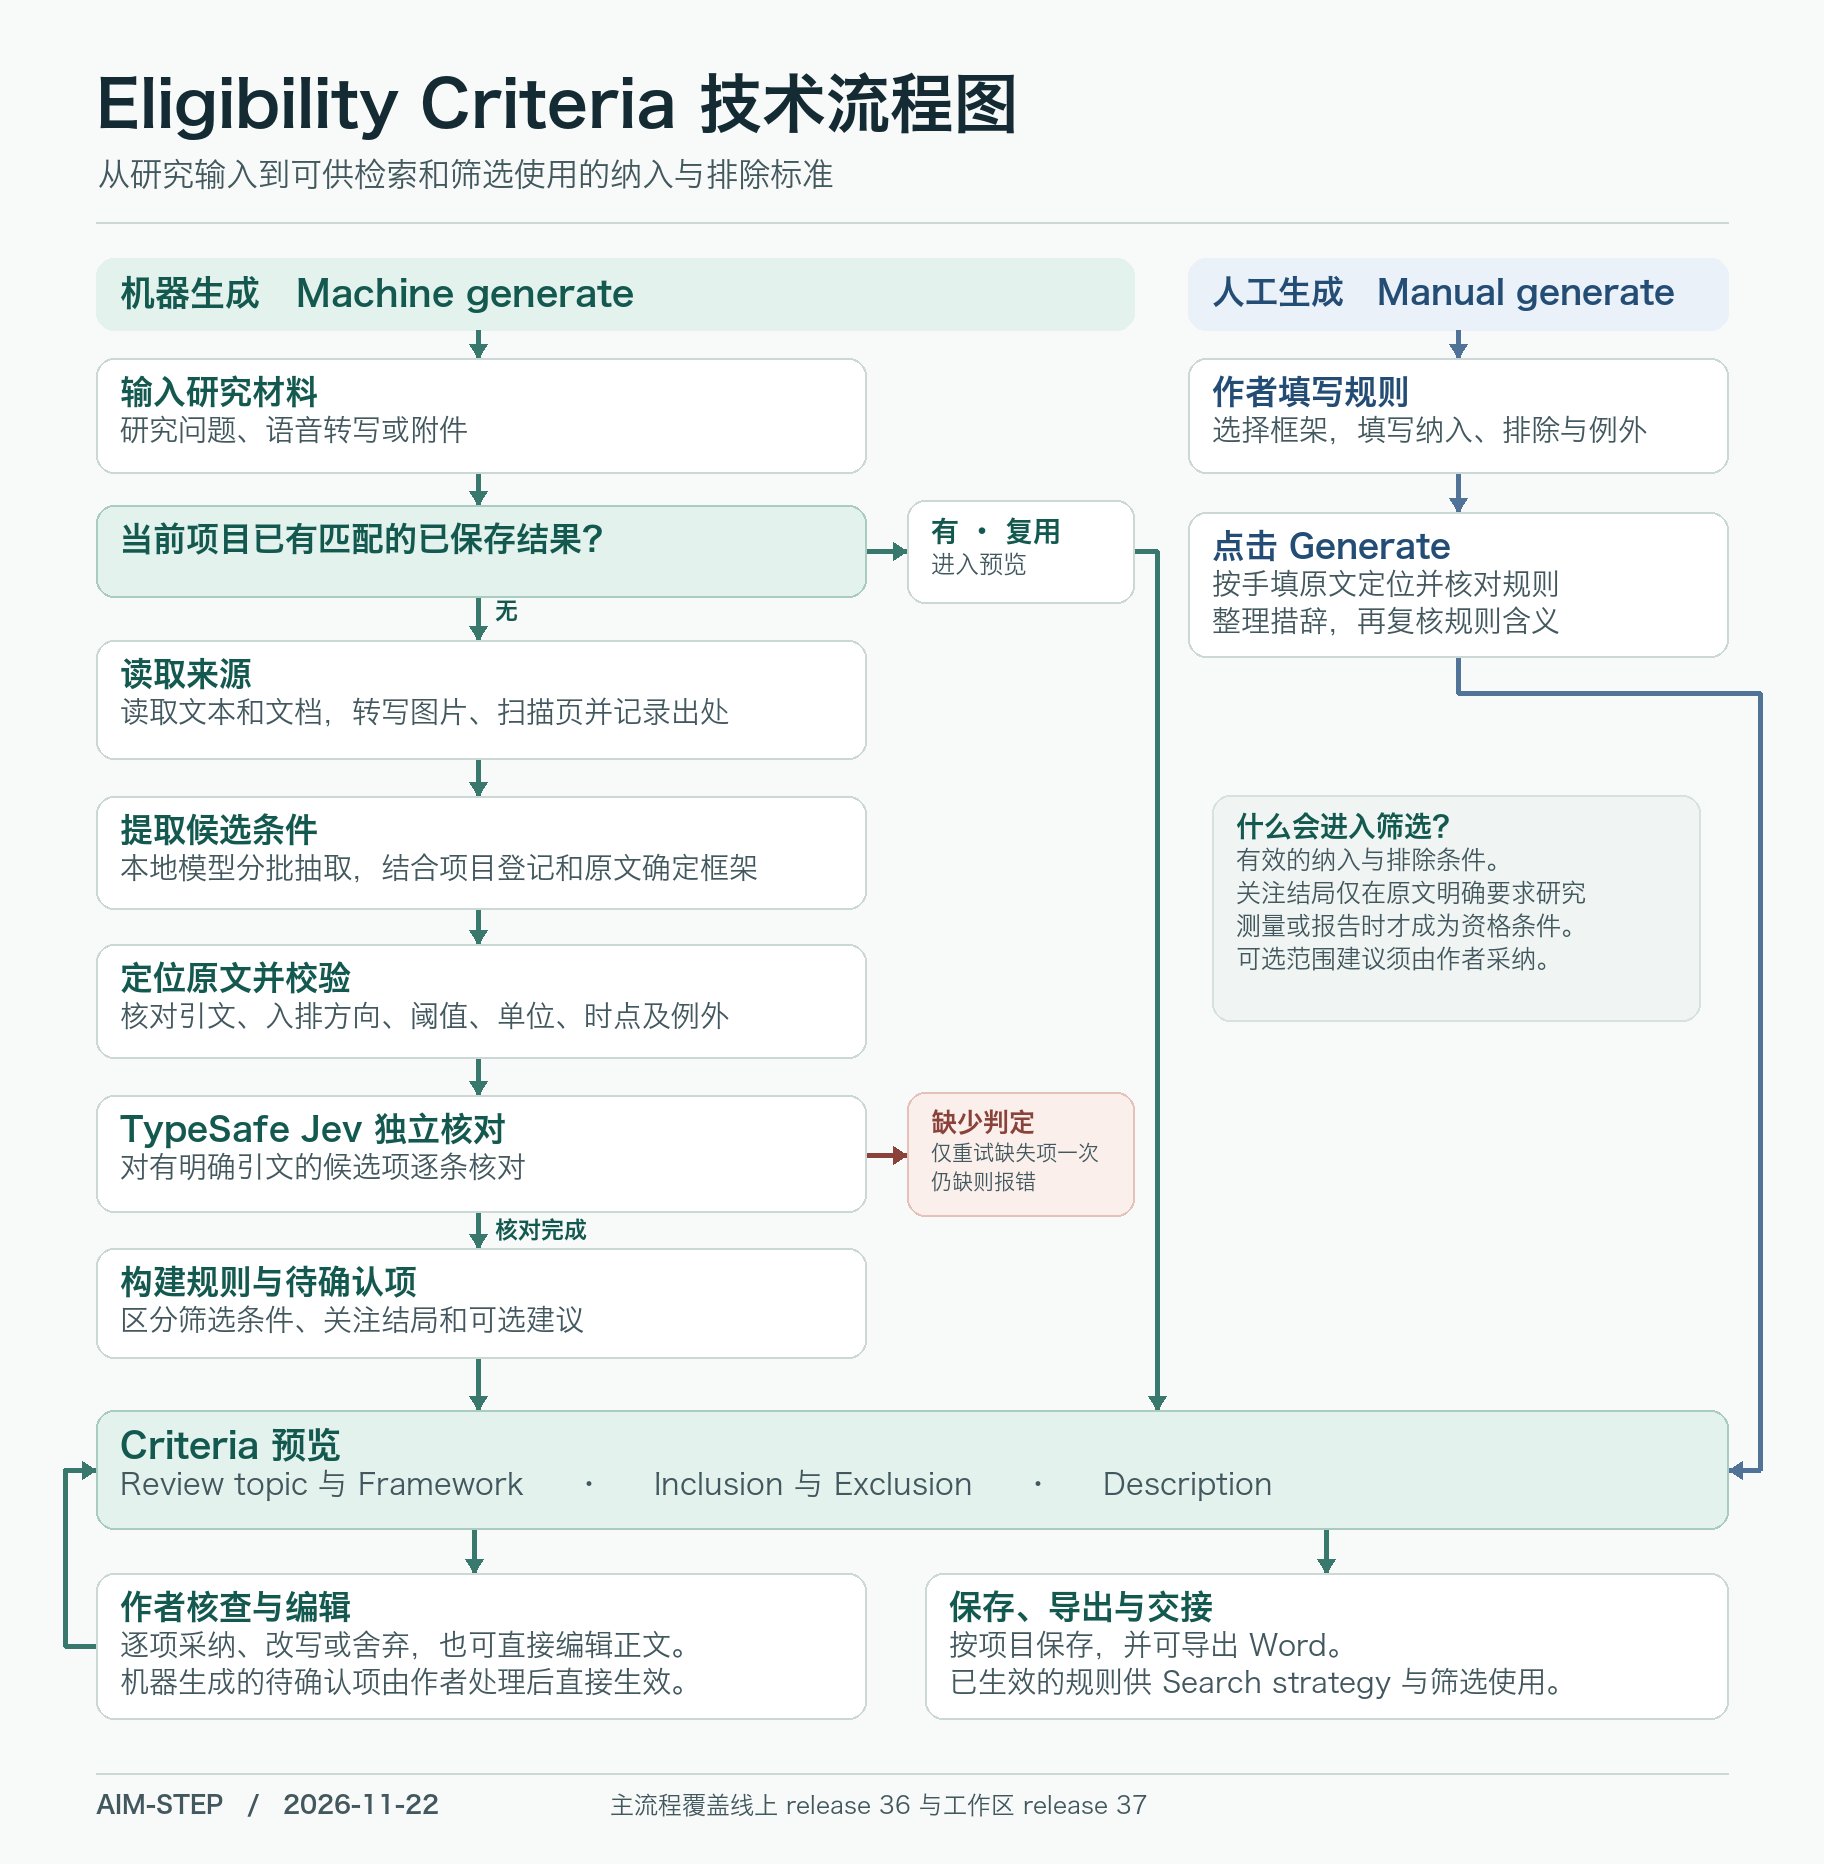
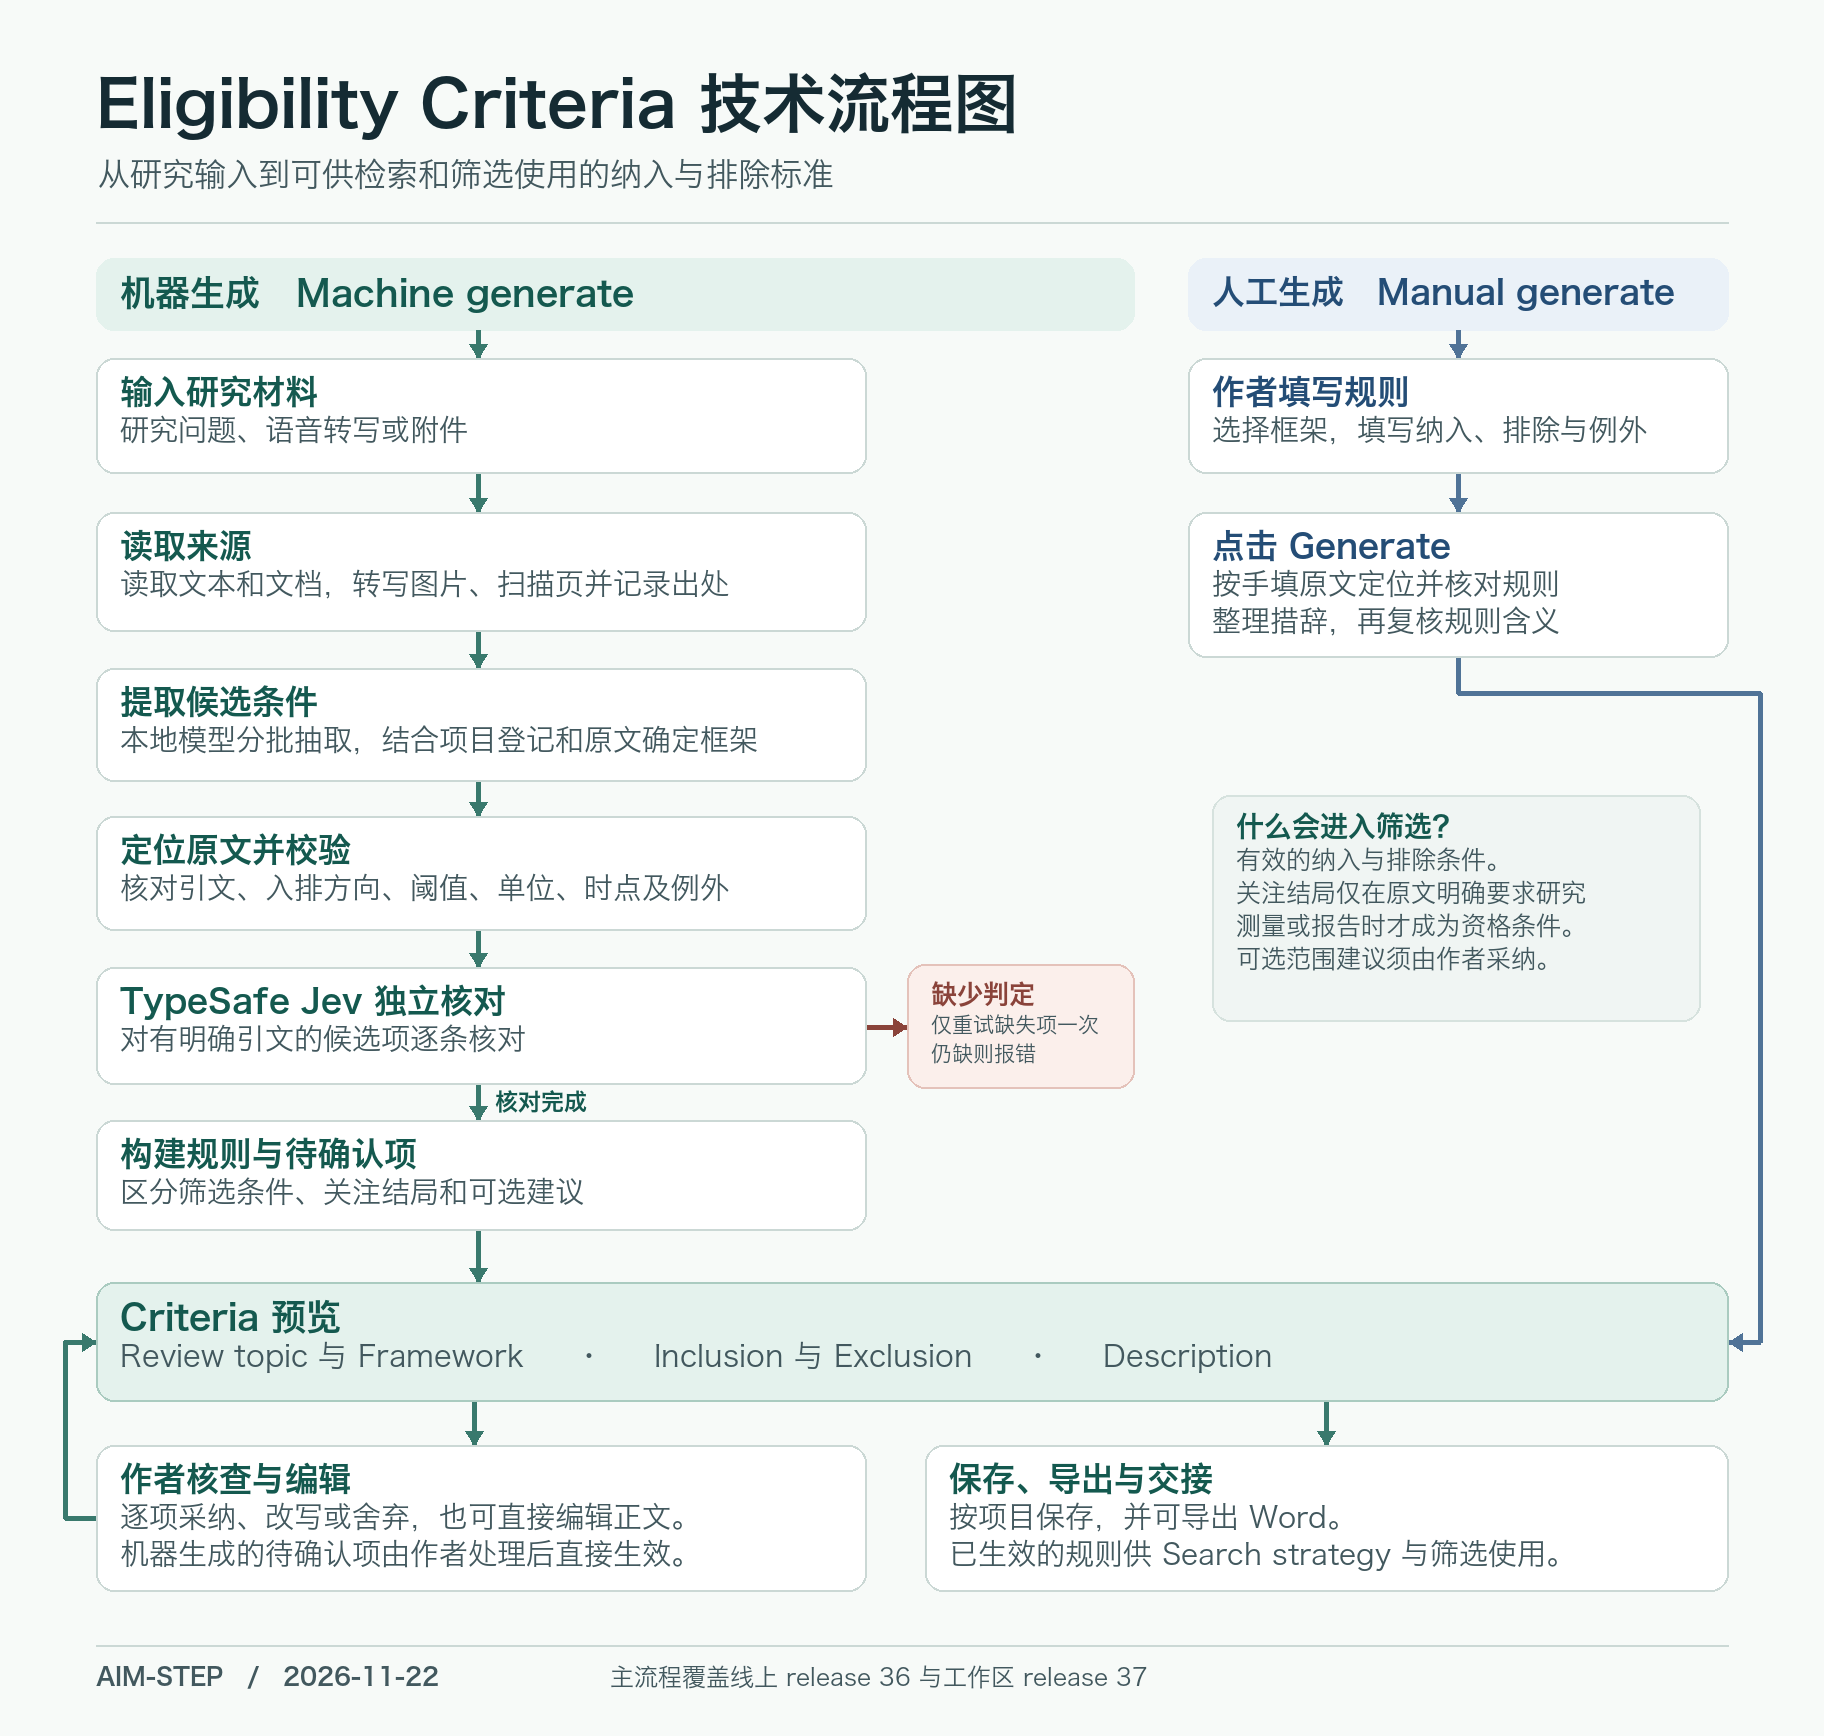
Remove reuse branch from eligibility workflow diagram

diff --git a/technical-roadmaps/eligibility-criteria/2026-11-22/sources/workflow.py b/technical-roadmaps/eligibility-criteria/2026-11-22/sources/workflow.py
@@ -26,7 +26,7 @@ def font(size, bold=False):
 
 
 def render(output):
-    image = Image.new('RGB', (1824, 1864), '#f7faf8')
+    image = Image.new('RGB', (1824, 1736), '#f7faf8')
     draw = ImageDraw.Draw(image)
 
     def text(x, y, value, size, color=INK, *, bold=False, max_width=None):
@@ -64,33 +64,27 @@ def render(output):
     card(1188, 258, 540, 72, '人工生成   Manual generate', fill=BLUE_PALE,
          border=BLUE_PALE, accent=BLUE, title_size=33)
 
-    for start, end in [(330, 358), (473, 505), (597, 640), (759, 796),
-                       (909, 944), (1058, 1095), (1212, 1248), (1358, 1410)]:
+    for start, end in [(330, 358), (473, 512), (631, 668), (781, 816),
+                       (930, 967), (1084, 1120), (1230, 1282)]:
         arrow([(478, start), (478, end)])
-    arrow([(866, 551), (907, 551)])
-    arrow([(1134, 551), (1157, 551), (1157, 1410)])
-    arrow([(866, 1155), (907, 1155)], ERROR)
+    arrow([(866, 1027), (907, 1027)], ERROR)
     for start, end in [(330, 358), (473, 512)]:
         arrow([(1458, start), (1458, end)], BLUE_LINE)
-    arrow([(1458, 657), (1458, 693), (1760, 693), (1760, 1470), (1728, 1470)],
+    arrow([(1458, 657), (1458, 693), (1760, 693), (1760, 1342), (1728, 1342)],
           BLUE_LINE)
-    arrow([(474, 1529), (474, 1573)])
-    arrow([(1326, 1529), (1326, 1573)])
-    arrow([(96, 1646), (65, 1646), (65, 1470), (96, 1470)])
+    arrow([(474, 1401), (474, 1445)])
+    arrow([(1326, 1401), (1326, 1445)])
+    arrow([(96, 1518), (65, 1518), (65, 1342), (96, 1342)])
 
     card(96, 358, 770, 115, '输入研究材料', ('研究问题、语音转写或附件',))
-    card(96, 505, 770, 92, '当前项目已有匹配的已保存结果？', fill=TEAL_PALE,
-         border='#aacbc0')
-    card(907, 500, 227, 103, '有 · 复用', ('进入预览',), title_size=28, body_size=24)
-    text(495, 600, '无', 23, TEAL, bold=True)
-    card(96, 640, 770, 119, '读取来源', ('读取文本和文档，转写图片、扫描页并记录出处',))
-    card(96, 796, 770, 113, '提取候选条件', ('本地模型分批抽取，结合项目登记和原文确定框架',))
-    card(96, 944, 770, 114, '定位原文并校验', ('核对引文、入排方向、阈值、单位、时点及例外',))
-    card(96, 1095, 770, 117, 'TypeSafe Jev 独立核对', ('对有明确引文的候选项逐条核对',))
-    card(907, 1092, 227, 124, '缺少判定', ('仅重试缺失项一次', '仍缺则报错'),
+    card(96, 512, 770, 119, '读取来源', ('读取文本和文档，转写图片、扫描页并记录出处',))
+    card(96, 668, 770, 113, '提取候选条件', ('本地模型分批抽取，结合项目登记和原文确定框架',))
+    card(96, 816, 770, 114, '定位原文并校验', ('核对引文、入排方向、阈值、单位、时点及例外',))
+    card(96, 967, 770, 117, 'TypeSafe Jev 独立核对', ('对有明确引文的候选项逐条核对',))
+    card(907, 964, 227, 124, '缺少判定', ('仅重试缺失项一次', '仍缺则报错'),
          fill=ERROR_PALE, border='#e4c2ba', accent=ERROR, title_size=26, body_size=21)
-    text(495, 1218, '核对完成', 23, TEAL, bold=True)
-    card(96, 1248, 770, 110, '构建规则与待确认项', ('区分筛选条件、关注结局和可选建议',))
+    text(495, 1090, '核对完成', 23, TEAL, bold=True)
+    card(96, 1120, 770, 110, '构建规则与待确认项', ('区分筛选条件、关注结局和可选建议',))
 
     card(1188, 358, 540, 115, '作者填写规则', ('选择框架，填写纳入、排除与例外',), accent=BLUE)
     card(1188, 512, 540, 145, '点击 Generate', ('按手填原文定位并核对规则', '整理措辞，再复核规则含义'), accent=BLUE)
@@ -100,18 +94,18 @@ def render(output):
           '测量或报告时才成为资格条件。', '可选范围建议须由作者采纳。'),
          fill='#f0f5f3', border='#d6e2de', title_size=28, body_size=25)
 
-    card(96, 1410, 1632, 119, 'Criteria 预览',
+    card(96, 1282, 1632, 119, 'Criteria 预览',
          ('Review topic 与 Framework     ·     Inclusion 与 Exclusion     ·     Description',),
          fill=TEAL_PALE, border='#aacbc0', title_size=35, body_size=30)
-    card(96, 1573, 770, 146, '作者核查与编辑',
+    card(96, 1445, 770, 146, '作者核查与编辑',
          ('逐项采纳、改写或舍弃，也可直接编辑正文。',
           '机器生成的待确认项由作者处理后直接生效。'))
-    card(925, 1573, 803, 146, '保存、导出与交接',
+    card(925, 1445, 803, 146, '保存、导出与交接',
          ('按项目保存，并可导出 Word。', '已生效的规则供 Search strategy 与筛选使用。'))
 
-    draw.line((96, 1773, 1728, 1773), fill=RULE, width=2)
-    text(96, 1793, 'AIM-STEP   /   2026-11-22', 24, MUTED, bold=True)
-    text(610, 1793, '主流程覆盖线上 release 36 与工作区 release 37', 24, MUTED,
+    draw.line((96, 1645, 1728, 1645), fill=RULE, width=2)
+    text(96, 1665, 'AIM-STEP   /   2026-11-22', 24, MUTED, bold=True)
+    text(610, 1665, '主流程覆盖线上 release 36 与工作区 release 37', 24, MUTED,
          max_width=1118)
 
     output.parent.mkdir(parents=True, exist_ok=True)

diff --git a/technical-roadmaps/eligibility-criteria/2026-11-22/README.md b/technical-roadmaps/eligibility-criteria/2026-11-22/README.md
@@ -4,7 +4,7 @@
 
 [打开高清 PNG](figures/eligibility-workflow.png) · [制图源码](sources/workflow.py)
 
-图示主流程适用于线上 `20261120-criteria-release-36`，也适用于工作区 `20261120-criteria-release-37`。图中的项目内复用指重新显示当前项目中与输入、附件及配置匹配的已保存结果。工作区 release 37 还实现了网关对相同模型请求的计算复用，这项变化随应用和网关代码另行上线。[线上实现对应提交](https://github.com/AIM-STEP/living-evidence/commit/c6a6d88843d958b48ba4b4209a12a894404e61e3)
+图示主流程适用于线上 `20261120-criteria-release-36`，也适用于工作区 `20261120-criteria-release-37`。[线上实现对应提交](https://github.com/AIM-STEP/living-evidence/commit/c6a6d88843d958b48ba4b4209a12a894404e61e3)
 
 机器生成时，作者对待确认项的选择直接应用到标准和预览，无需再次调用模型。点击 **Clear** 会保留问题框内容，清除该项目的标准、草稿和附件，并使清除前的任务无法回写。
 
